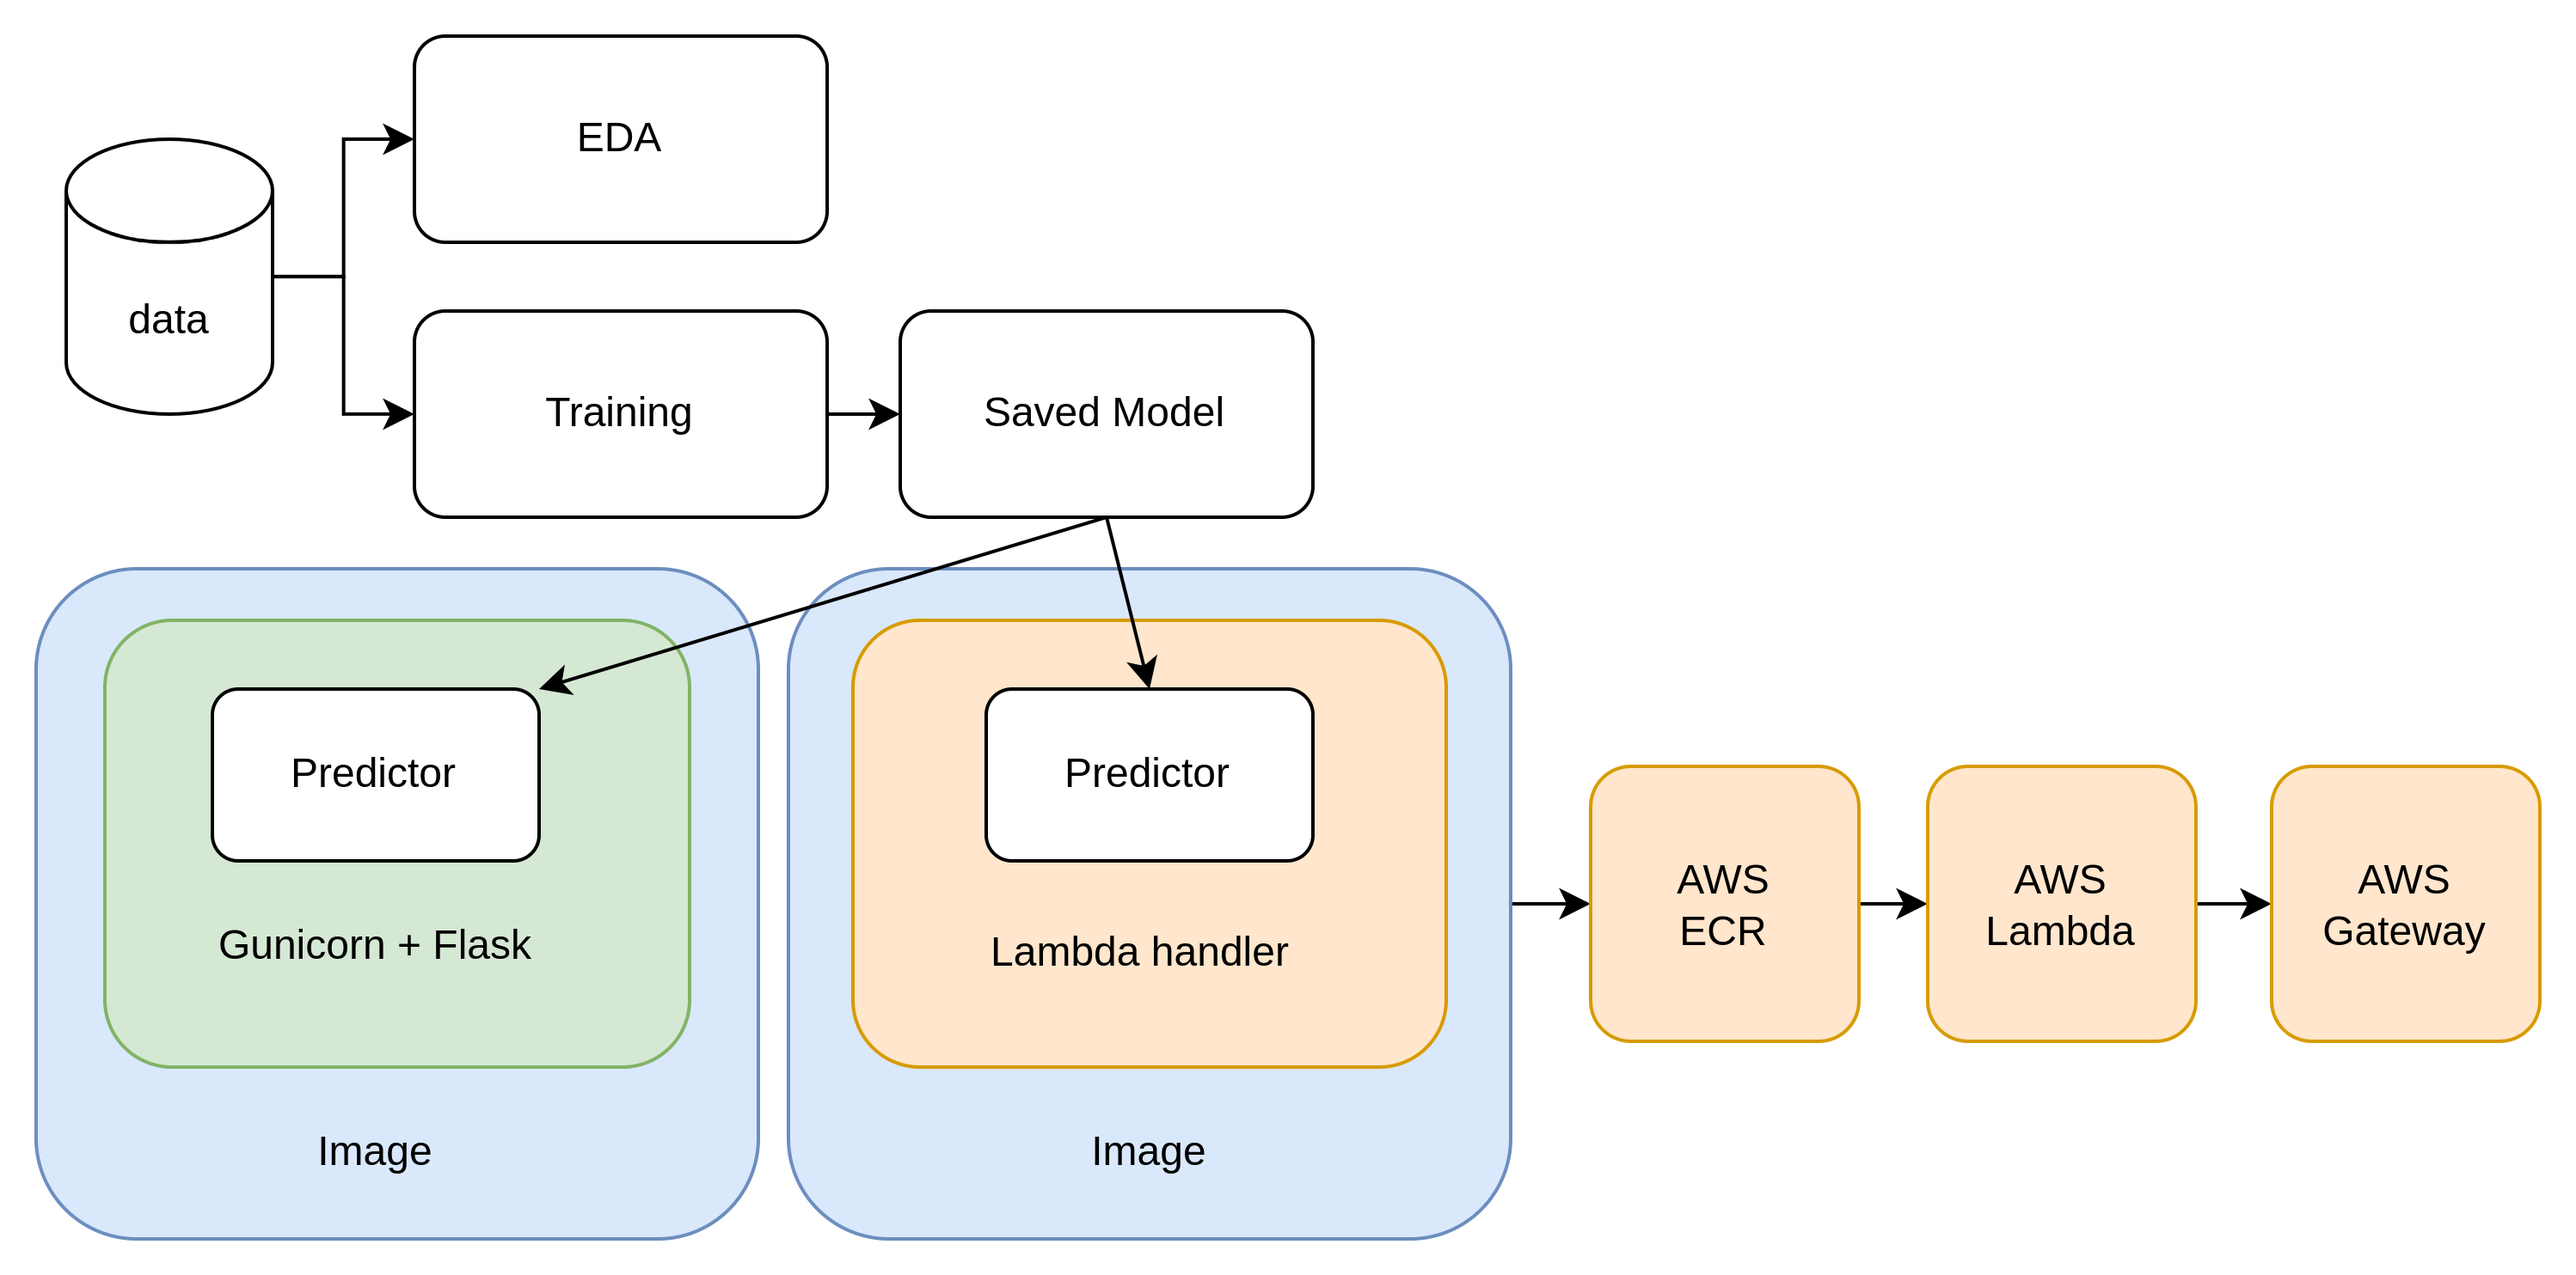
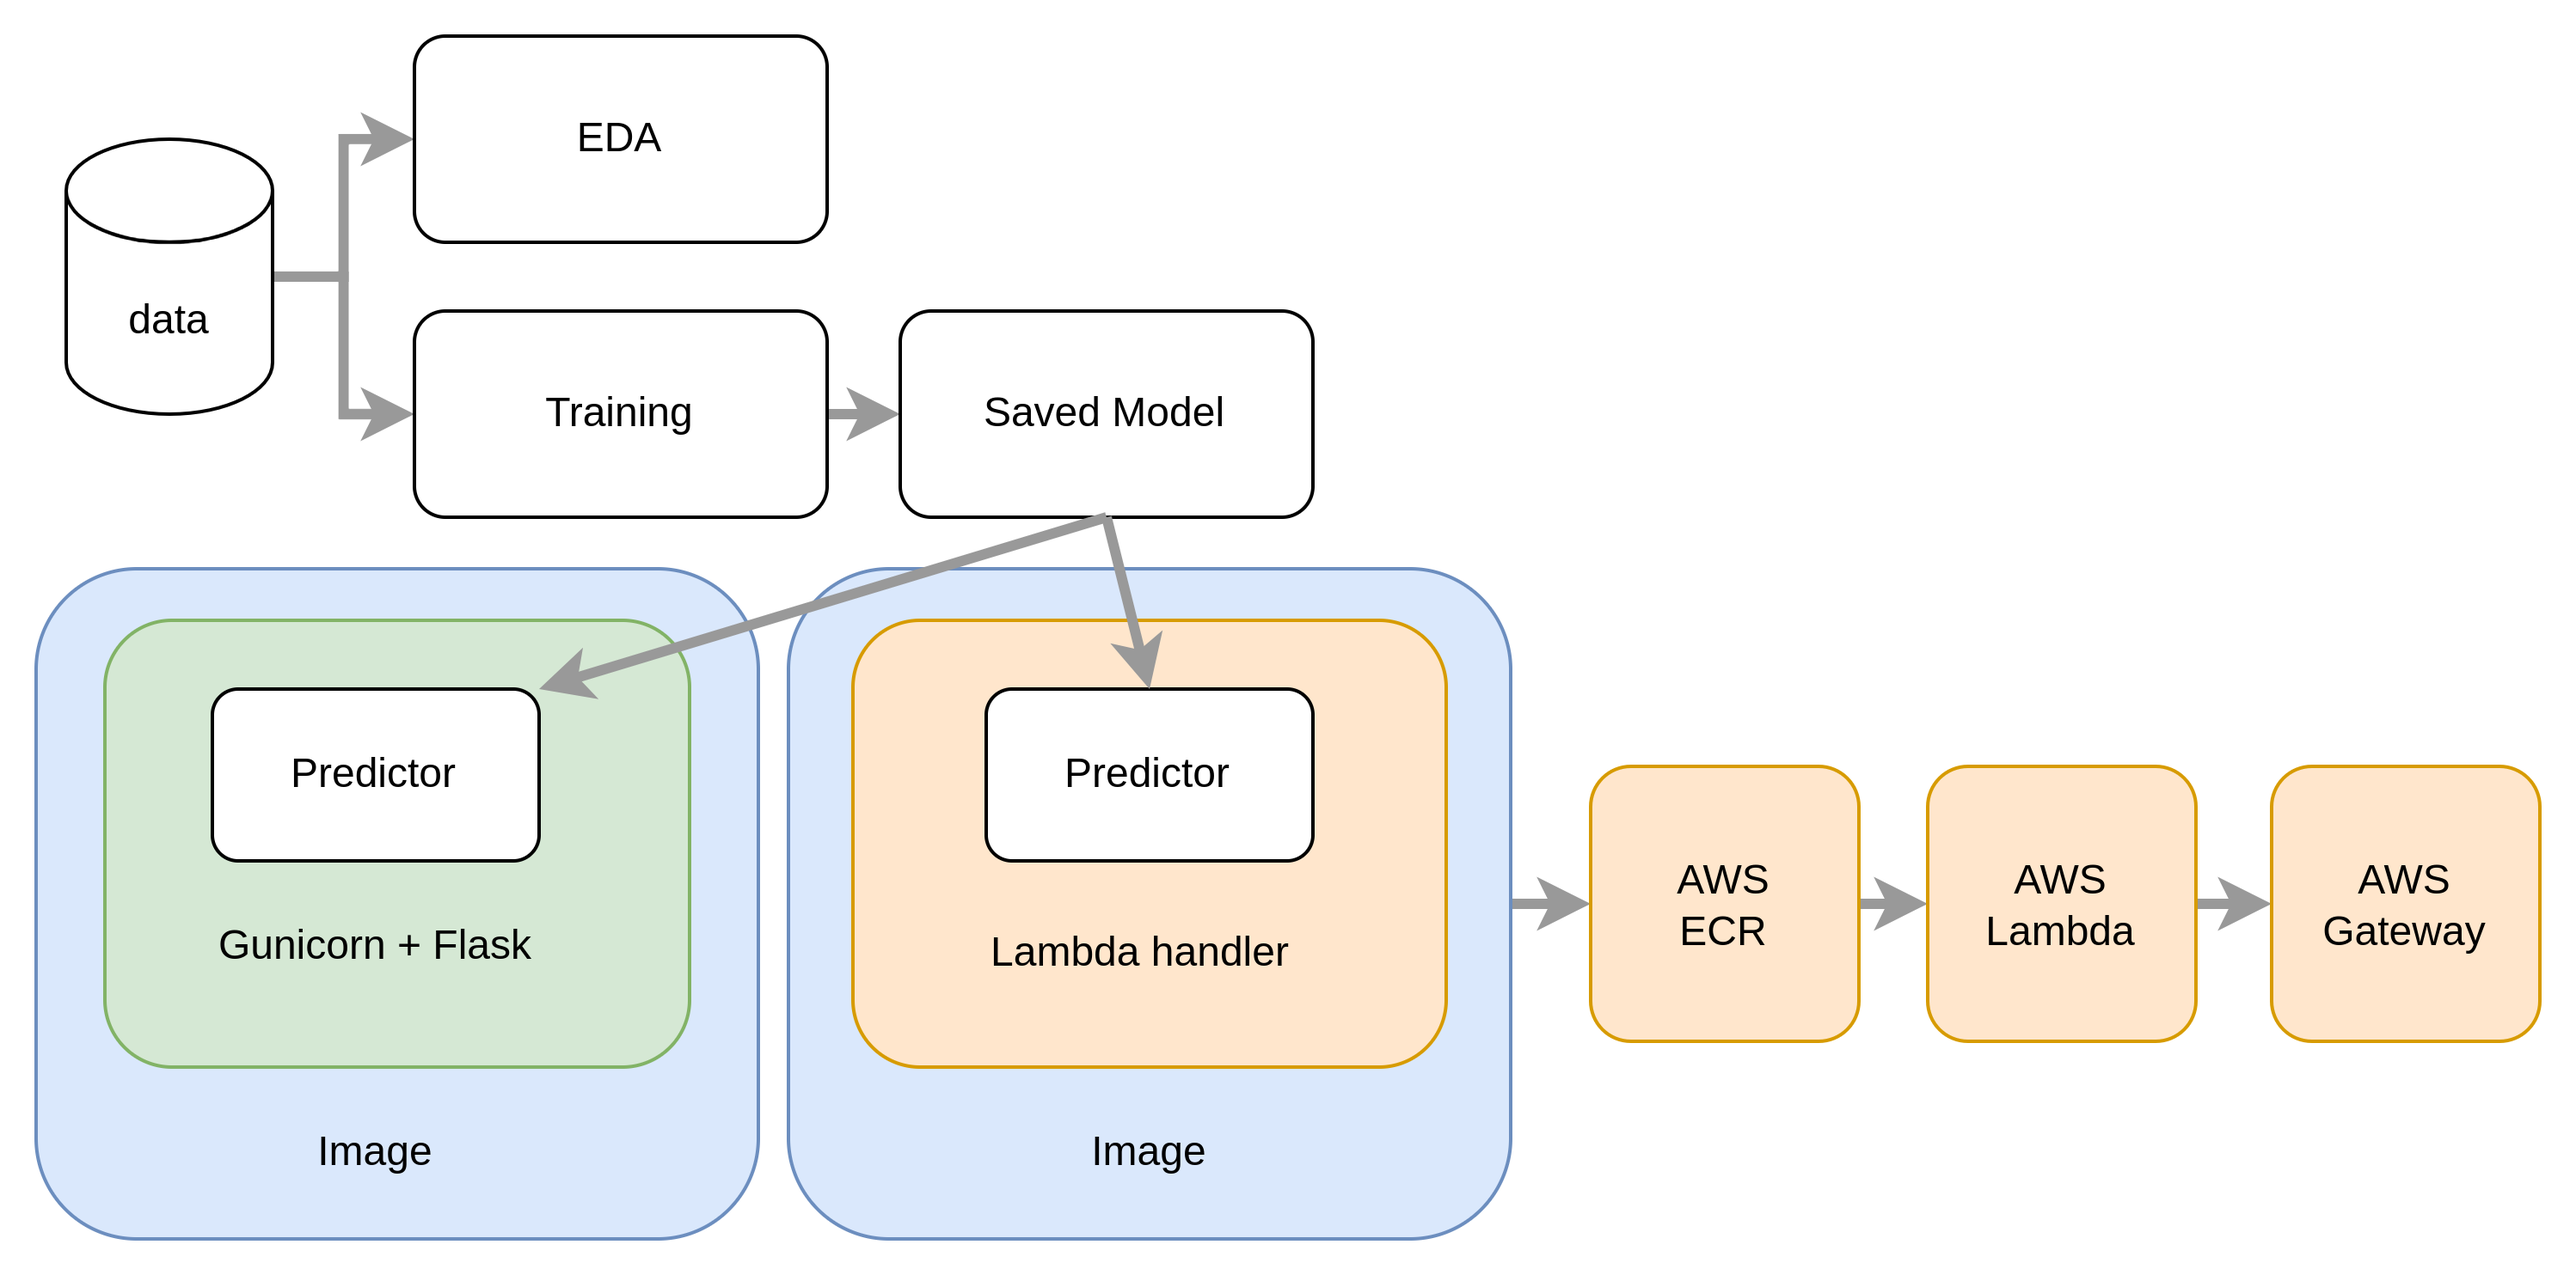
Added a diagram for better ilustration

diff --git a/README.md b/README.md
@@ -22,7 +22,7 @@ The goal of this competition is to predict MDS-UPDR scores, which measure progre
 
 Your work could help provide important breakthrough information about which molecules change as Parkinson’s disease progresses.
 
-![Alt text](image.png)
+![Alt text](image-1.png)
 ## Navigating the project repository 
 
 Where to find the files for evaluation:
